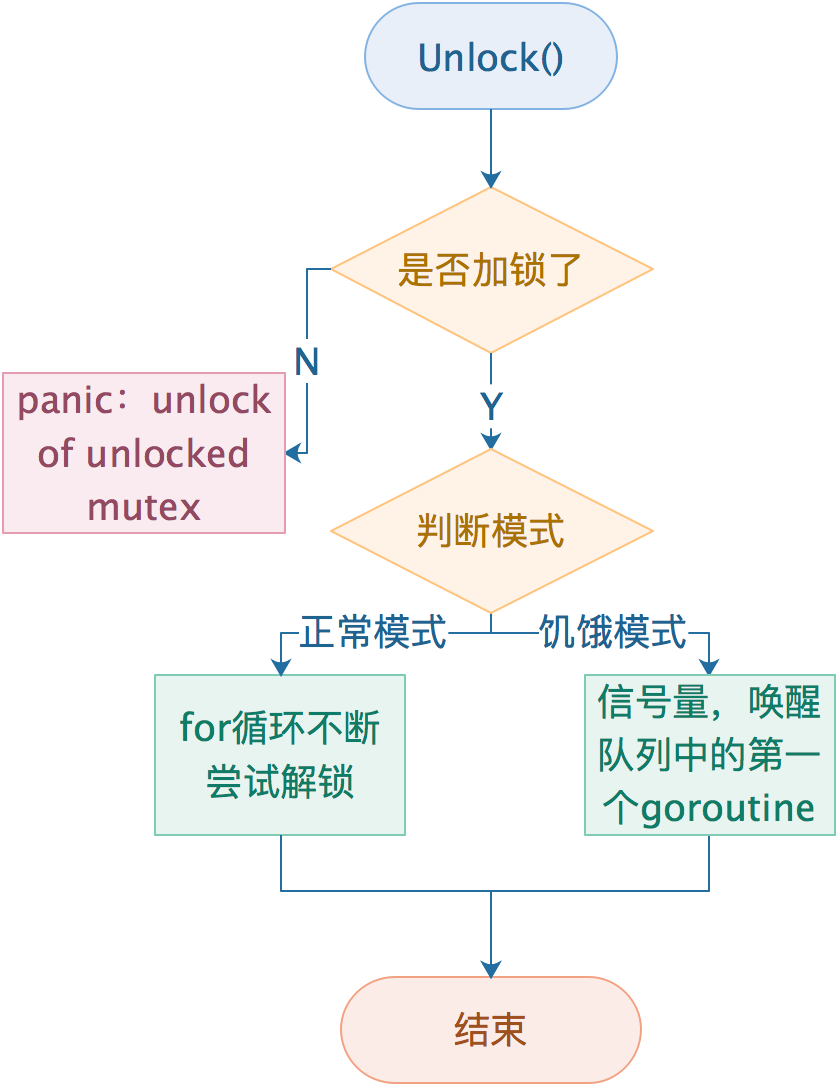
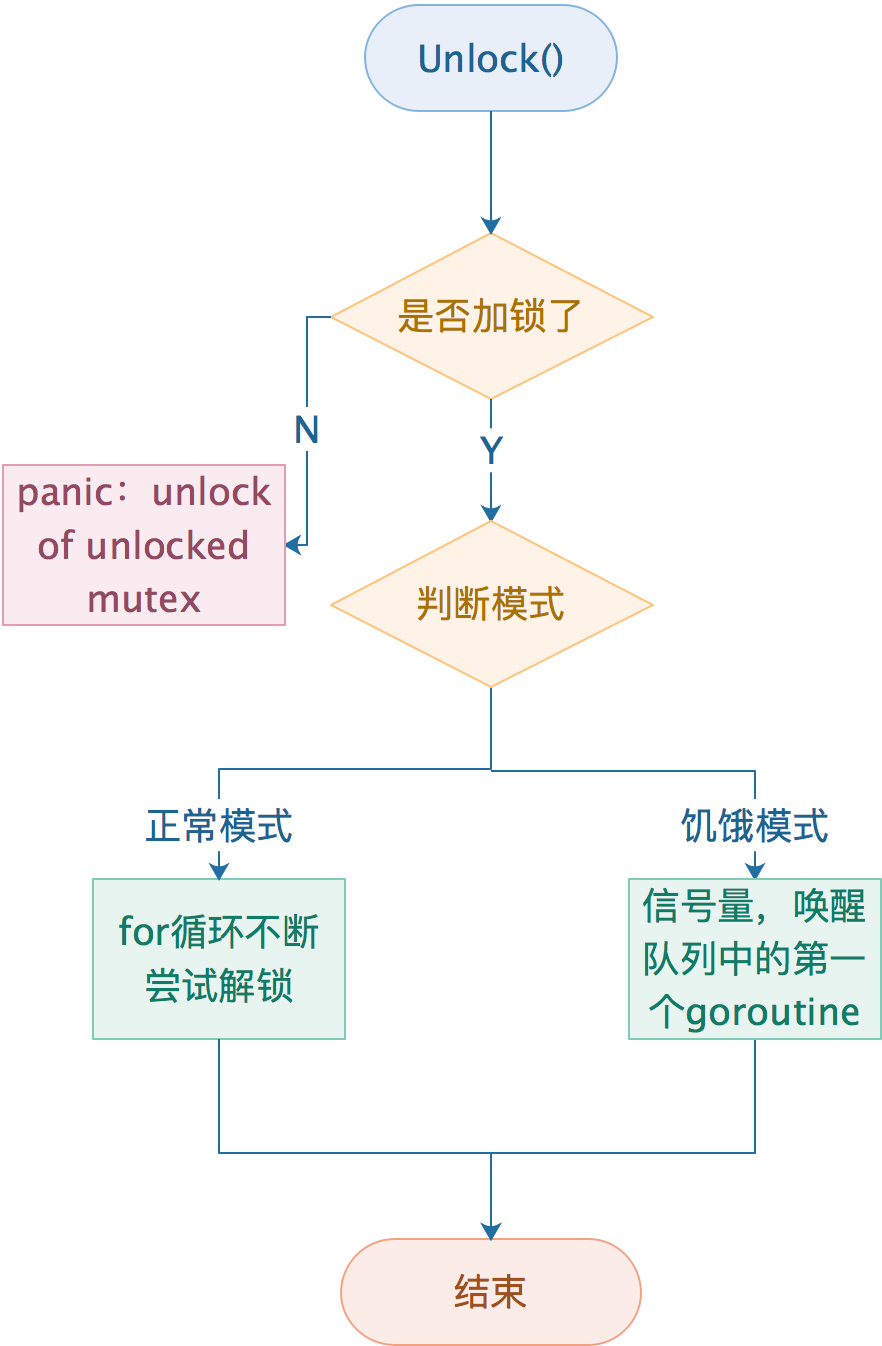
sync.Mutex

diff --git a/sync/mutex/mutex.md b/sync/mutex/mutex.md
@@ -475,7 +475,7 @@ func (m *Mutex) unlockSlow(new int32) {
 
 3、饥饿模式下，通过信号量，唤醒在饥饿模式下面`Lock`操作下队列中第一个`goroutine`。  
 
-<img src="/img/sync_mutex_unlock.png" width = "314" height = "407" alt="mutex" align=center />
+<img src="/img/sync_mutex_unlock.png" width = "331" height = "505" alt="mutex" align=center />
 
 ### 总结
 
